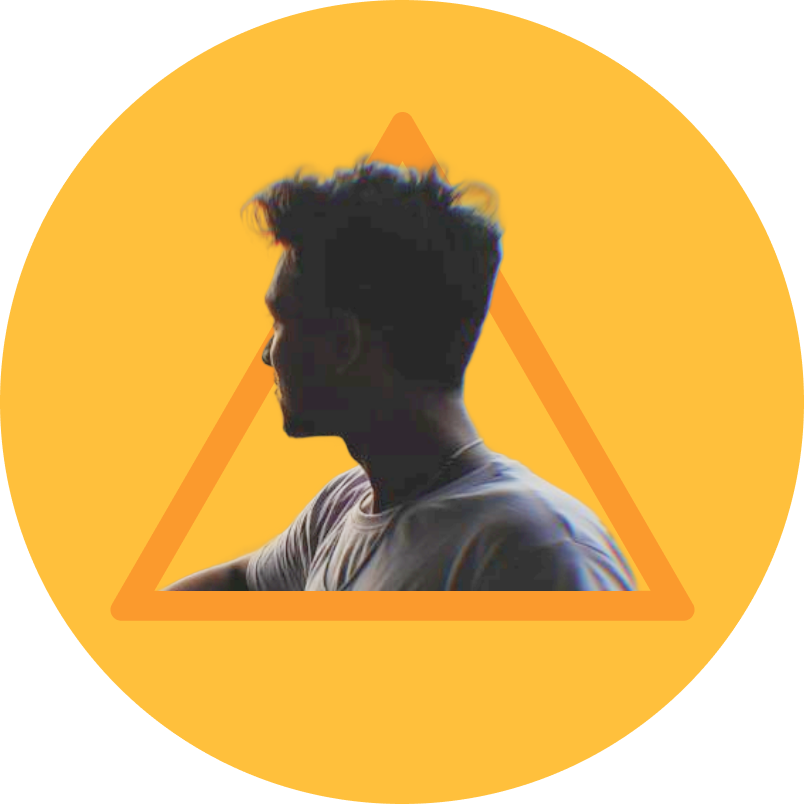
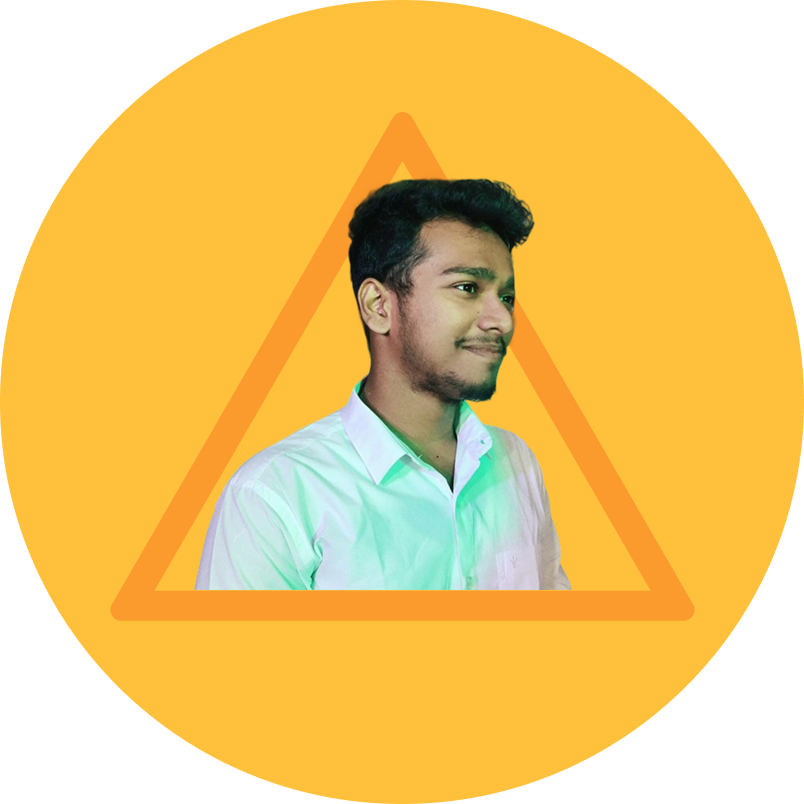
timage added

Changed region(s): [[0.1866, 0.1866, 0.8085, 0.7463]]

diff --git a/index.html b/index.html
@@ -16,11 +16,11 @@
     />
 </head>
 <body>
-    <div class="header-wrapper">
-    <header class="">
+    <div class="header-wrapper" id="home">
+    <header class="" >
         <!-- <img src="./assets/images/doll.png" alt="Squid Game Doll" class="squid-doll"> -->
-        <nav class="navbar navbar-expand-lg navbar-dark fixed mx-auto">
-            <div class="container-fluid">
+        <nav class="navbar navbar-expand-lg navbar-dark fixed mx-auto d-flex align-items-center">
+            <div class="container-fluid ">
                 <a class="navbar-brand" href="#">
                     <span class="nav-shape nav-circle"></span>
                     <span class="nav-shape nav-triangle"></span>
@@ -29,10 +29,10 @@
                 <button class="navbar-toggler" type="button" data-bs-toggle="collapse" data-bs-target="#navbarNav">
                     <span class="navbar-toggler-icon"></span>
                 </button>
-                <div class="collapse navbar-collapse" id="navbarNav">
+                <div class="collapse navbar-collapse " id="navbarNav">
                     <ul class="navbar-nav me-auto">
                         <li class="nav-item">
-                            <a class="nav-link" href="#">Home</a>
+                            <a class="nav-link" href="#home">Home</a>
                         </li>
                         <li class="nav-item">
                             <a class="nav-link" href="#about">About</a>
@@ -80,7 +80,7 @@
                 </div>
             </div>
 
-            <a href="https://forms.gle/BgHwabjix7CtfP6B9" class="register-now">Register Now</a>
+            <a href="https://forms.gle/BgHwabjix7CtfP6B9" class="register-now mt-3">Register Now</a>
             <!-- <p class="cap">stay alive or stay human</p> -->
         </div>
         </div>
@@ -133,28 +133,41 @@
     <h1  data-aos="fade-up" data-aos-delay="100">🦑 Prizes 🦑</h1>
     <h4 class="mb-5"  data-aos="fade-up" data-aos-delay="200">Cash Prizes + Internship Opportunities</h4>
     <div class="row justify-content-center">
-        <div class="col-4 prize silver"  data-aos="fade-up" data-aos-delay="1000">
+        <div class="col-4 prize silver d-none d-md-block"  data-aos="fade-up" data-aos-delay="1000">
             <div class="game-symbol"></div>
             <img src="./assets/images/prize-silver.png" alt="2nd Prize" class="img-fluid">
             <h2>2nd Prize</h2>
             <p>₹ 3,000</p>
         </div>
-        <div class="col-4 prize gold"  data-aos="fade-up" data-aos-delay="400">
+        <div class="col-8 col-md-4 prize gold"  data-aos="fade-up" data-aos-delay="400">
             <div class="game-symbol"></div>
             <img src="./assets/images/prize-gold.png" alt="1st Prize" class="img-fluid">
             <h2>1st Prize</h2>
             <p>₹ 5,000</p>
         </div>
-        <div class="col-4 prize bronze"  data-aos="fade-up" data-aos-delay="1400">
+        <div class="col-4 prize bronze d-none d-md-block"  data-aos="fade-up" data-aos-delay="1400">
+            <div class="game-symbol"></div>
+            <img src="./assets/images/prize-bronze.png" alt="3rd Prize" class="img-fluid">
+            <h2>3rd Prize</h2>
+            <p>₹ 2,000</p>
+        </div>
+
+        <div class="row justify-content-center d-md-none ">
+        <div class="col-6 col-md-4 prize silver" data-aos="fade-up" data-aos-delay="1000">
+            <div class="game-symbol"></div>
+            <img src="./assets/images/prize-silver.png" alt="2nd Prize" class="img-fluid">
+            <h2>2nd Prize</h2>
+            <p>₹ 3,000</p>
+        </div>
+        <div class="col-6 col-md-4 prize bronze d-md-none" data-aos="fade-up" data-aos-delay="1400">
             <div class="game-symbol"></div>
             <img src="./assets/images/prize-bronze.png" alt="3rd Prize" class="img-fluid">
             <h2>3rd Prize</h2>
             <p>₹ 2,000</p>
         </div>
     </div>
-
+    </div>
   </div>
-    
 </section>
 
 <section id="timeline" class="timeline-section">
@@ -173,7 +186,7 @@
 </section>
 
 <section class="container text-center" id="organizers">
-    <h1>🔺 Organizers ⭕</h1>
+    <h1 data-aos="fade-up" data-aos-delay="200" >🔺 Organizers ⭕</h1>
 
      <div class="row justify-content-center">
         <!-- VIP (Faculty Coordinator) -->
@@ -244,7 +257,7 @@
 
         <div class="col-4 col-lg-2 organizer " data-aos="fade-up" data-aos-delay="400">
             <div class="shape">
-                <img src="./assets/images/circle.png" class="img-fluid img-ss" alt="Organizer 6">
+                <img src="./assets/images/jude.png" class="img-fluid img-ss" alt="Organizer 6">
             </div>
             <h5>Jude Sahai</h5>
         </div>
@@ -258,7 +271,7 @@
 
         <div class="col-4 col-lg-2 organizer " data-aos="fade-up" data-aos-delay="800">
             <div class="shape">
-                <img src="./assets/images/circle.png" class="img-fluid img-ss" alt="Organizer 6">
+                <img src="./assets/images/joel.png" class="img-fluid img-ss" alt="Organizer 6">
             </div>
             <h5>Joel S</h5>
         </div>
@@ -272,7 +285,7 @@
 
         <div class="col-4 col-lg-2 organizer " data-aos="fade-up" data-aos-delay="1200">
             <div class="shape">
-                <img src="./assets/images/circle.png" class="img-fluid img-ss" alt="Organizer 6">
+                <img src="./assets/images/akshaya.png" class="img-fluid img-ss" alt="Organizer 6">
             </div>
             <h5>Akshaya M</h5>
         </div>
@@ -281,7 +294,7 @@
     <div class="row justify-content-center">
         <div class="col-4 col-lg-2 organizer" data-aos="fade-up" data-aos-delay="200">
             <div class="shape">
-                <img src="./assets/images/circle.png" class="img-fluid img-ss" alt="Organizer 5">
+                <img src="./assets/images/darshini.png" class="img-fluid img-ss" alt="Organizer 5">
             </div>
             <h5>Darshini S</h5>
         </div>
@@ -295,7 +308,7 @@
 
         <div class="col-4 col-lg-2 organizer" data-aos="fade-up" data-aos-delay="600">
             <div class="shape">
-                <img src="./assets/images/circle.png" class="img-fluid img-ss" alt="Organizer 5">
+                <img src="./assets/images/rahul.png" class="img-fluid img-ss" alt="Organizer 5">
             </div>
             <h5>Raghul M</h5>
         </div>
@@ -316,7 +329,7 @@
 
         <div class="col-4 col-lg-2 organizer" data-aos="fade-up" data-aos-delay="1200">
             <div class="shape">
-                <img src="./assets/images/circle.png" class="img-fluid img-ss" alt="Organizer 6">
+                <img src="./assets/images/rahul.png" class="img-fluid img-ss" alt="Organizer 6">
             </div>
             <h5>Dhanesh VN</h5>
         </div>
@@ -376,7 +389,7 @@
 
     <script src="https://cdn.jsdelivr.net/npm/bootstrap@5.1.3/dist/js/bootstrap.bundle.min.js"></script>
     <script>
-        const countDownDate = new Date("March 14, 2025 09:30:00").getTime();
+        const countDownDate = new Date("March 17, 2025 09:30:00").getTime();
 
         
       function updateCountdown() {
@@ -397,6 +410,41 @@
 setInterval(updateCountdown, 1000);
 
       </script>
+
+     <script>
+    document.addEventListener('DOMContentLoaded', function() {
+        // Get all nav links
+        const navLinks = document.querySelectorAll('.navbar-nav .nav-link');
+
+        // For each link, add a click event listener
+        navLinks.forEach(link => {
+            link.addEventListener('click', function(e) {
+                e.preventDefault(); // Prevent the default anchor click behavior
+                
+                // Get the target section's ID from the href attribute of the link
+                const targetId = this.getAttribute('href').substring(1);
+                const targetElement = document.getElementById(targetId);
+                
+                // Scroll to the target element with an offset of -80px
+                window.scrollTo({
+                    top: targetElement.offsetTop - 135, // Adjust for 80px offset
+                    behavior: 'smooth' // Smooth scrolling
+                });
+
+                // Close the navbar in mobile view (optional)
+                const navbarCollapse = document.getElementById('navbarNav');
+                if (navbarCollapse.classList.contains('show')) {
+                    const bootstrapCollapse = new bootstrap.Collapse(navbarCollapse, {
+                        toggle: false
+                    });
+                    bootstrapCollapse.hide();
+                }
+            });
+        });
+    });
+</script>
+
+
 
       <script>
         $(document).ready(function () {

diff --git a/style.css b/style.css
@@ -150,7 +150,6 @@ h1 {
 /* Register Now Button */
 .register-now {
     display: inline-block;
-    margin-top: 20px; 
     padding: 10px 35px;
     background: linear-gradient(90deg, #eb1656 28.48%, #ae1b76 72.96%);
     color: white;
